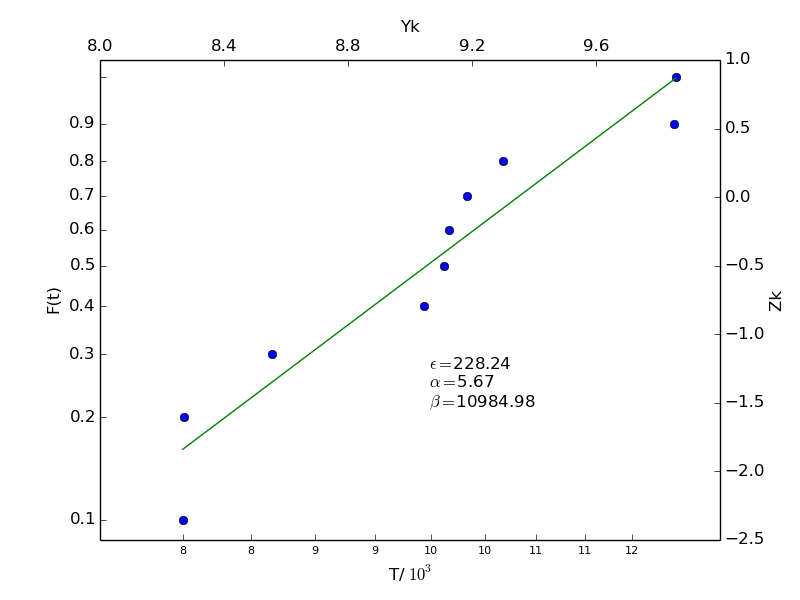
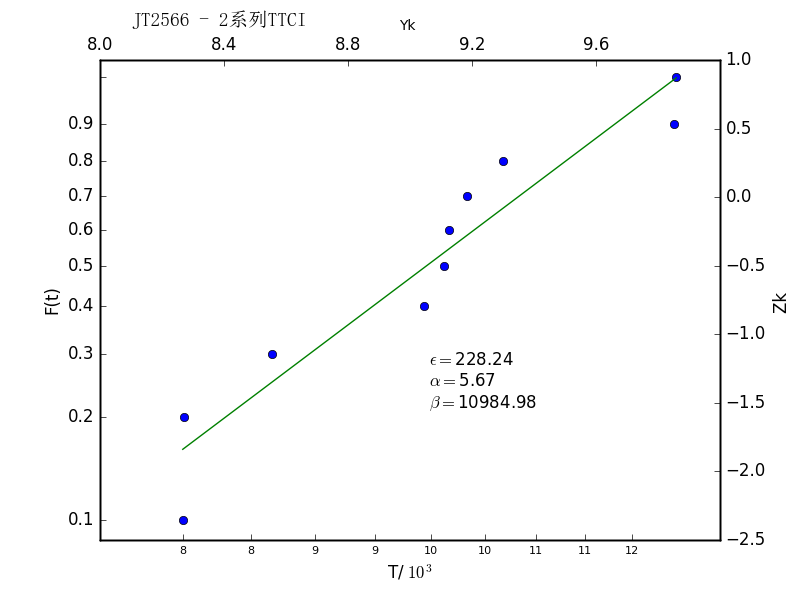
add title in the fig_x

diff --git a/python/MatPlotLib画图/exp_data/T06_v2.py b/python/MatPlotLib画图/exp_data/T06_v2.py
@@ -6,8 +6,11 @@
 #增加图例换行
 import numpy as np
 import matplotlib.pyplot as plt
+import matplotlib
 import pandas as pd
 import math
+
+zhfont_song = matplotlib.font_manager.FontProperties(fname='C:\Windows\Fonts\simsun.ttc')
 
 def _list_mut(list1,list2):
     return list(map(lambda x: x[0] * x[1], zip(list1, list2)))
@@ -33,6 +36,16 @@ Fig_name = [
     'fig_7',
     'fig_8',
 
+]
+title_name = [
+    u'YK2563 - 1系列TTCI',
+    u'YK2563 - 2系列TTCI',
+    u'DK2564 - 1系列TTCI',
+    u'DK2564 - 2系列TTCI',
+    u'JT2566 - 1系列TTCI',
+    u'JT2566 - 2系列TTCI',
+    u'WB2567 - 1系列TTCI',
+    u'WB2567 - 2系列TTCI'
 ]
 for i in range(1,len(data.columns)+1):
 #######################################################################
@@ -99,6 +112,15 @@ for i in range(1,len(data.columns)+1):
     ax1.set_yticklabels([0.1, 0.2, 0.3, 0.4, 0.5, 0.6, 0.7, 0.8, 0.9])
 
 #######################################################################
+# 添加标题
+# 有点BUG 参考fit_cover2
+#######################################################################
+    plt.text(0.05, 1.07, title_name[i-1],
+         fontsize=14,
+         transform=ax1.transAxes,
+        fontproperties=zhfont_song)
+
+#######################################################################
 # 设置 副X Y轴 的显示
 #######################################################################
 
@@ -107,7 +129,7 @@ for i in range(1,len(data.columns)+1):
     ax2.set_ylim(-2.5, 1)
 
     ax2 = ax1.twiny()  # this is the important function
-    ax2.set_xlabel('Yk ')
+    ax2.set_xlabel('Yk ',fontsize=10)
     yyy = list(set([int(x) for x in Yk]))
     yyy.sort()
 
@@ -116,8 +138,9 @@ for i in range(1,len(data.columns)+1):
 #######################################################################
 # 设置图片结果显示,保存
 #######################################################################
-    # fig.savefig(Fig_name[i-1])
-    plt.show()
+    fig.savefig(Fig_name[i-1])
+
+    # plt.show()
 
 #######################################################################
 # 设置处理后数据结果保存

diff --git a/python/MatPlotLib画图/exp_data/fit_cover2.py b/python/MatPlotLib画图/exp_data/fit_cover2.py
@@ -63,19 +63,25 @@ ax1.set_ylim(-2.5,1)
 ax1.set_yticks(Z) #设置刻度
 ax1.set_yticklabels([0.1,  0.2,  0.3,  0.4,  0.5,  0.6,  0.7,  0.8,  0.9 , 1.0])
 
+plt.text(0.05, 1.07,'FFFFFFFFFFFFFFF',
+         fontsize=14,
+         transform = ax1.transAxes)
 
 ax2 = ax1.twinx()
 ax2.set_ylabel('Z ')
 ax2.set_ylim(-2.5,1)
 
 ax2 = ax1.twiny()  # this is the important function
-ax2.set_xlabel('Y ')
+ax2.set_xlabel('Y',fontsize=10)
 yyy = list(set([int(x) for x in Y]))
 yyy.sort()
 
 yyy = np.arange(yyy[0],yyy[-1]+1,(yyy[-1] +1 - yyy[0])/5.0)
 print 'yyy',yyy
 # ax2.set_xticks(yy) #设置刻度
+plt.text(0.05, 1.07,'FFFFFFFFFFFFFFF',
+         fontsize=14,
+         transform = ax1.transAxes)
 ax2.set_xticklabels(yyy)
 
 plt.show()

diff --git a/python/MatPlotLib画图/plot4.py b/python/MatPlotLib画图/plot4.py
@@ -1,0 +1,22 @@
+# -*- coding: utf-8 -*-
+# __author__ = 'eacaen'
+import pylab as plt
+
+fig = plt.figure(figsize=(5,10))
+
+figure_title = "Normal title"
+ax1  = plt.subplot(1,2,1)
+
+plt.title(figure_title, fontsize = 20)
+plt.plot([1,2,3],[1,4,9])
+
+figure_title = "Raised title"
+ax2  = plt.subplot(1,2,2)
+
+plt.text(0.5, 1.08, figure_title,
+         horizontalalignment='center',
+         fontsize=20,
+         transform = ax2.transAxes)
+plt.plot([1,2,3],[1,4,9])
+
+plt.show()
